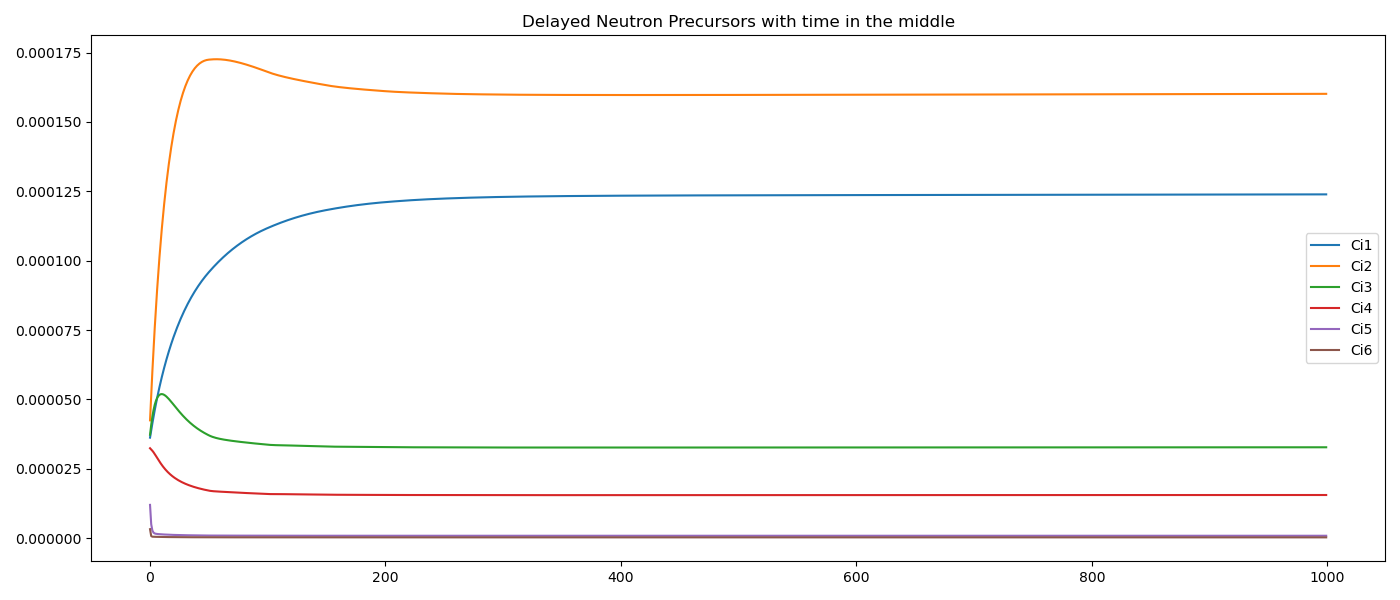
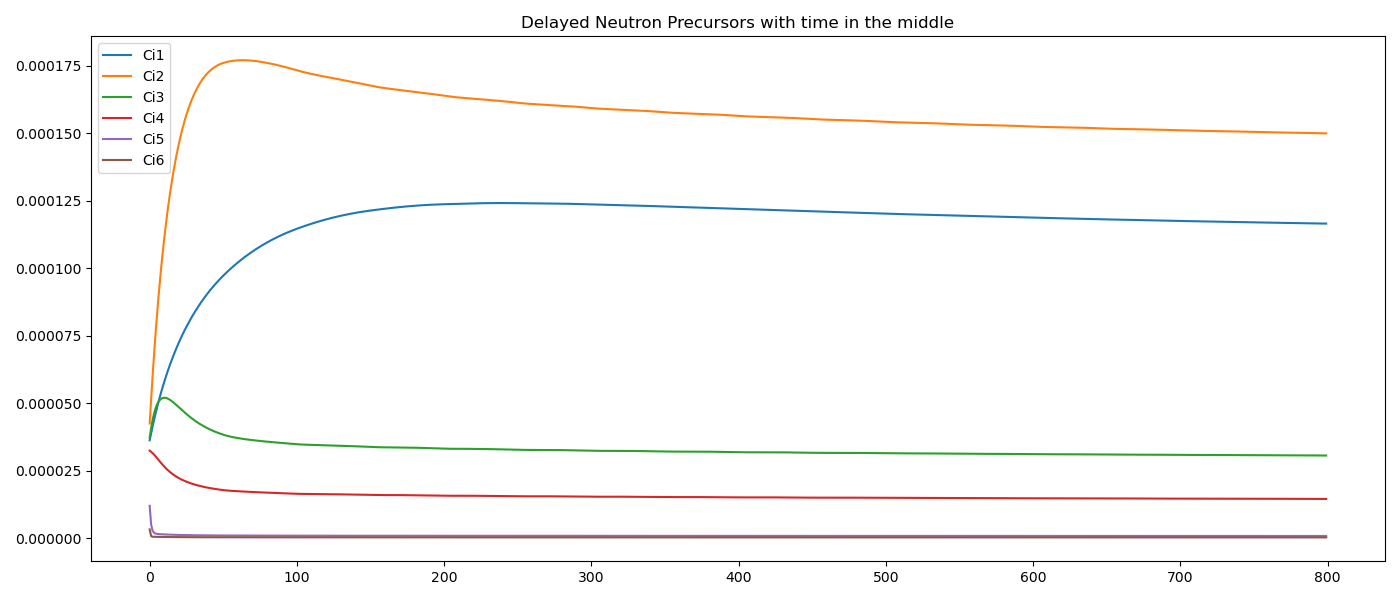
parameter

diff --git a/parameters.py b/parameters.py
@@ -38,7 +38,7 @@ def generate_parameters(
     Mg = 3687,   # Mass of graphite in the core, kg
     gamma = 0.93,    # Fraction of power released in the salt
     # U = 36000   # Overall heat transfer coefficient between salt and graphite, W/K
-    U = 36000,
+    U = 10000,
     c_p_g = 1757,    # Specific heat of graphite, J/kg K
     # Temp input for test:
     # Amplitude = 4.5e6;
@@ -56,7 +56,7 @@ def generate_parameters(
     bc_s0 = 922,
     bc_sL = 976,
     bc_g0 = 921,
-    bc_gL = 973,
+    bc_gL = 993,
     # bc_g0 = 1050
     # bc_gL = 1060
     # bc_g0 = 931.15
